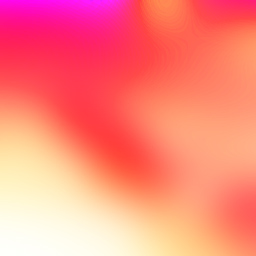
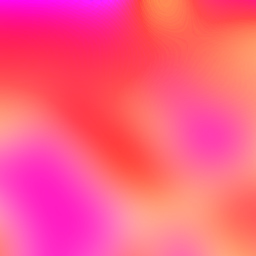
Adapting landscape demo to touch screens

diff --git a/html/lab/gl_carpet/landscape.html b/html/lab/gl_carpet/landscape.html
@@ -193,12 +193,20 @@
 		window.addEventListener('resize', resize);
 		resize();
 
-		var w = 20, 
-			h = 15,
-			sw = w * 4, 
-			sh = h * 4, 
-			tileX = w * 4;
-			tileY = h * 4;
+		var w = 24, h = 15, m = 4;
+
+		if(Simplrz.touch && window.innerWidth >= 768) {
+			w = 16, h = 10, m = 4;
+		} else if(Simplrz.touch) {
+			w = 8, h = 10, m = 3;
+		}
+
+		console.log(w, h, m);
+
+		var sw = w * m, 
+			sh = h * m, 
+			tileX = w * m;
+			tileY = h * m;
 
 		var buffer = SQR.Primitives.createPlane(w, h, sw, sh);
 
